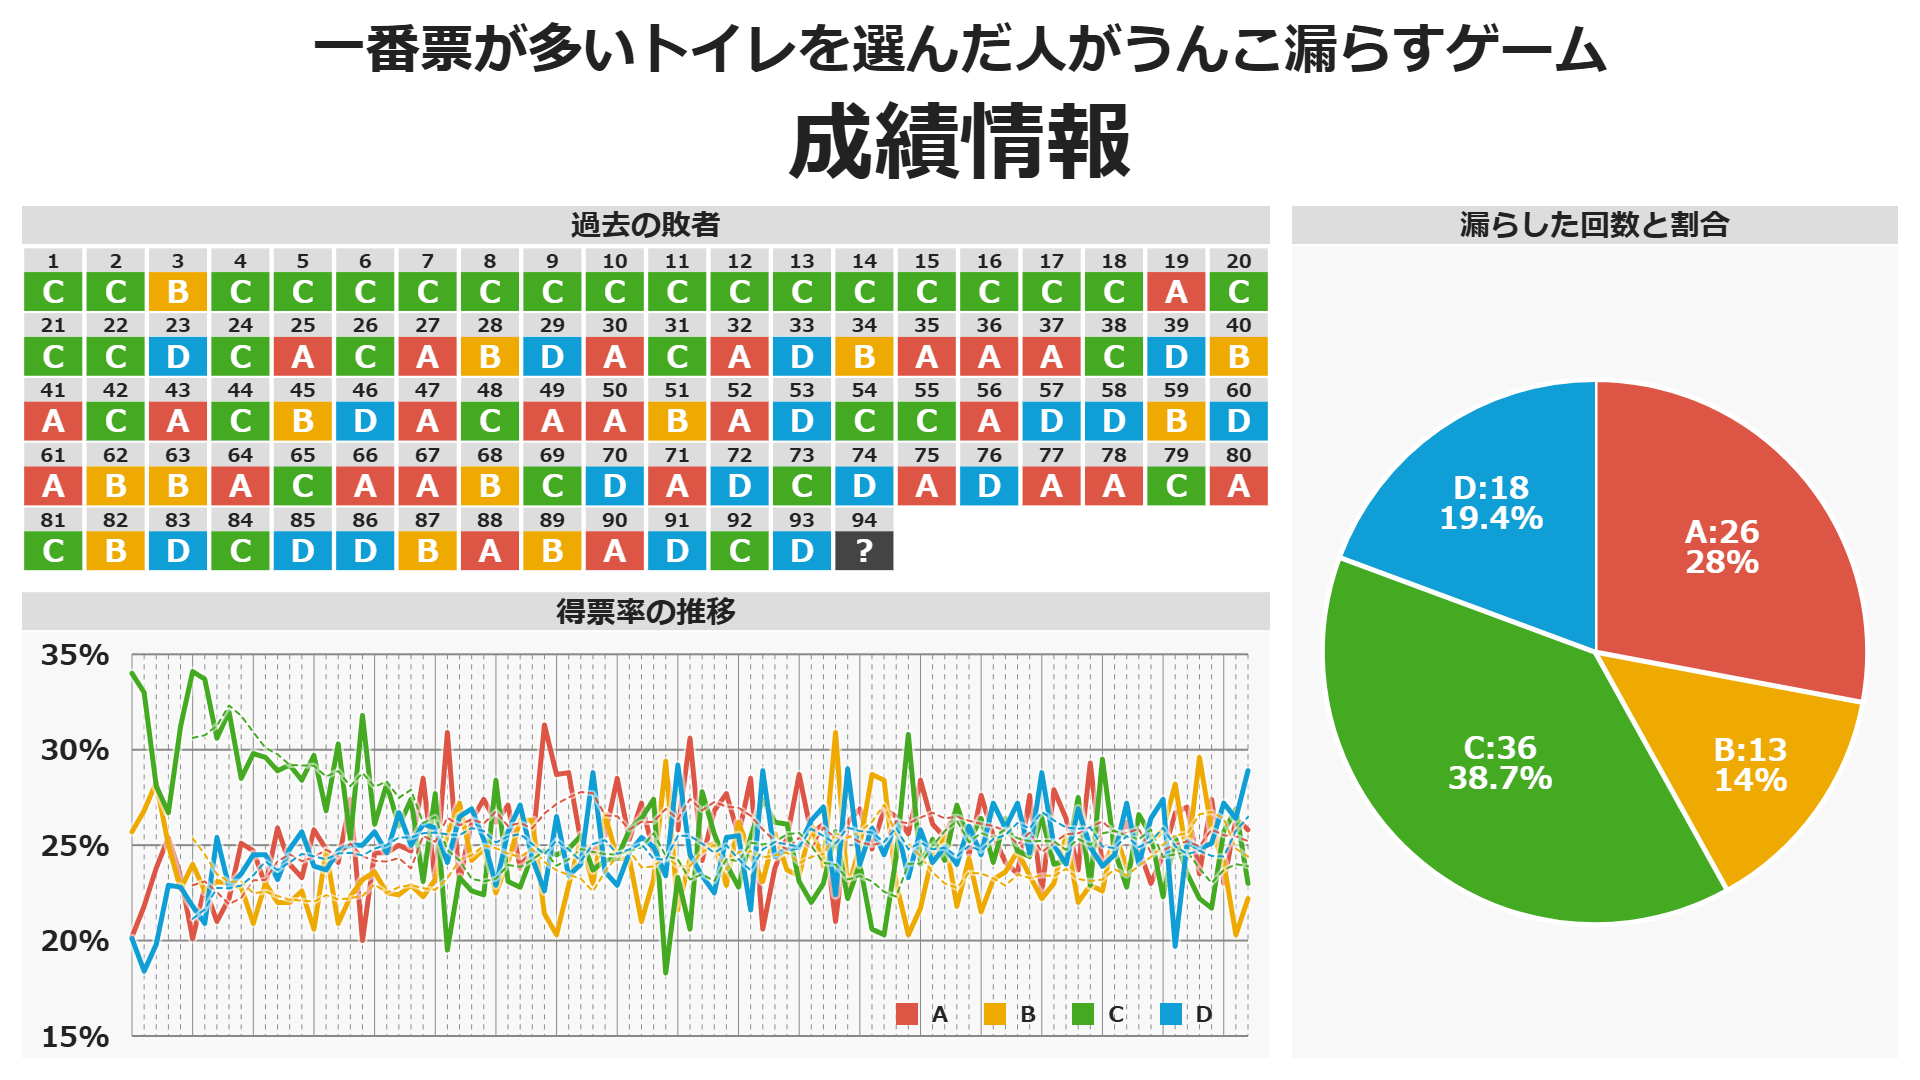
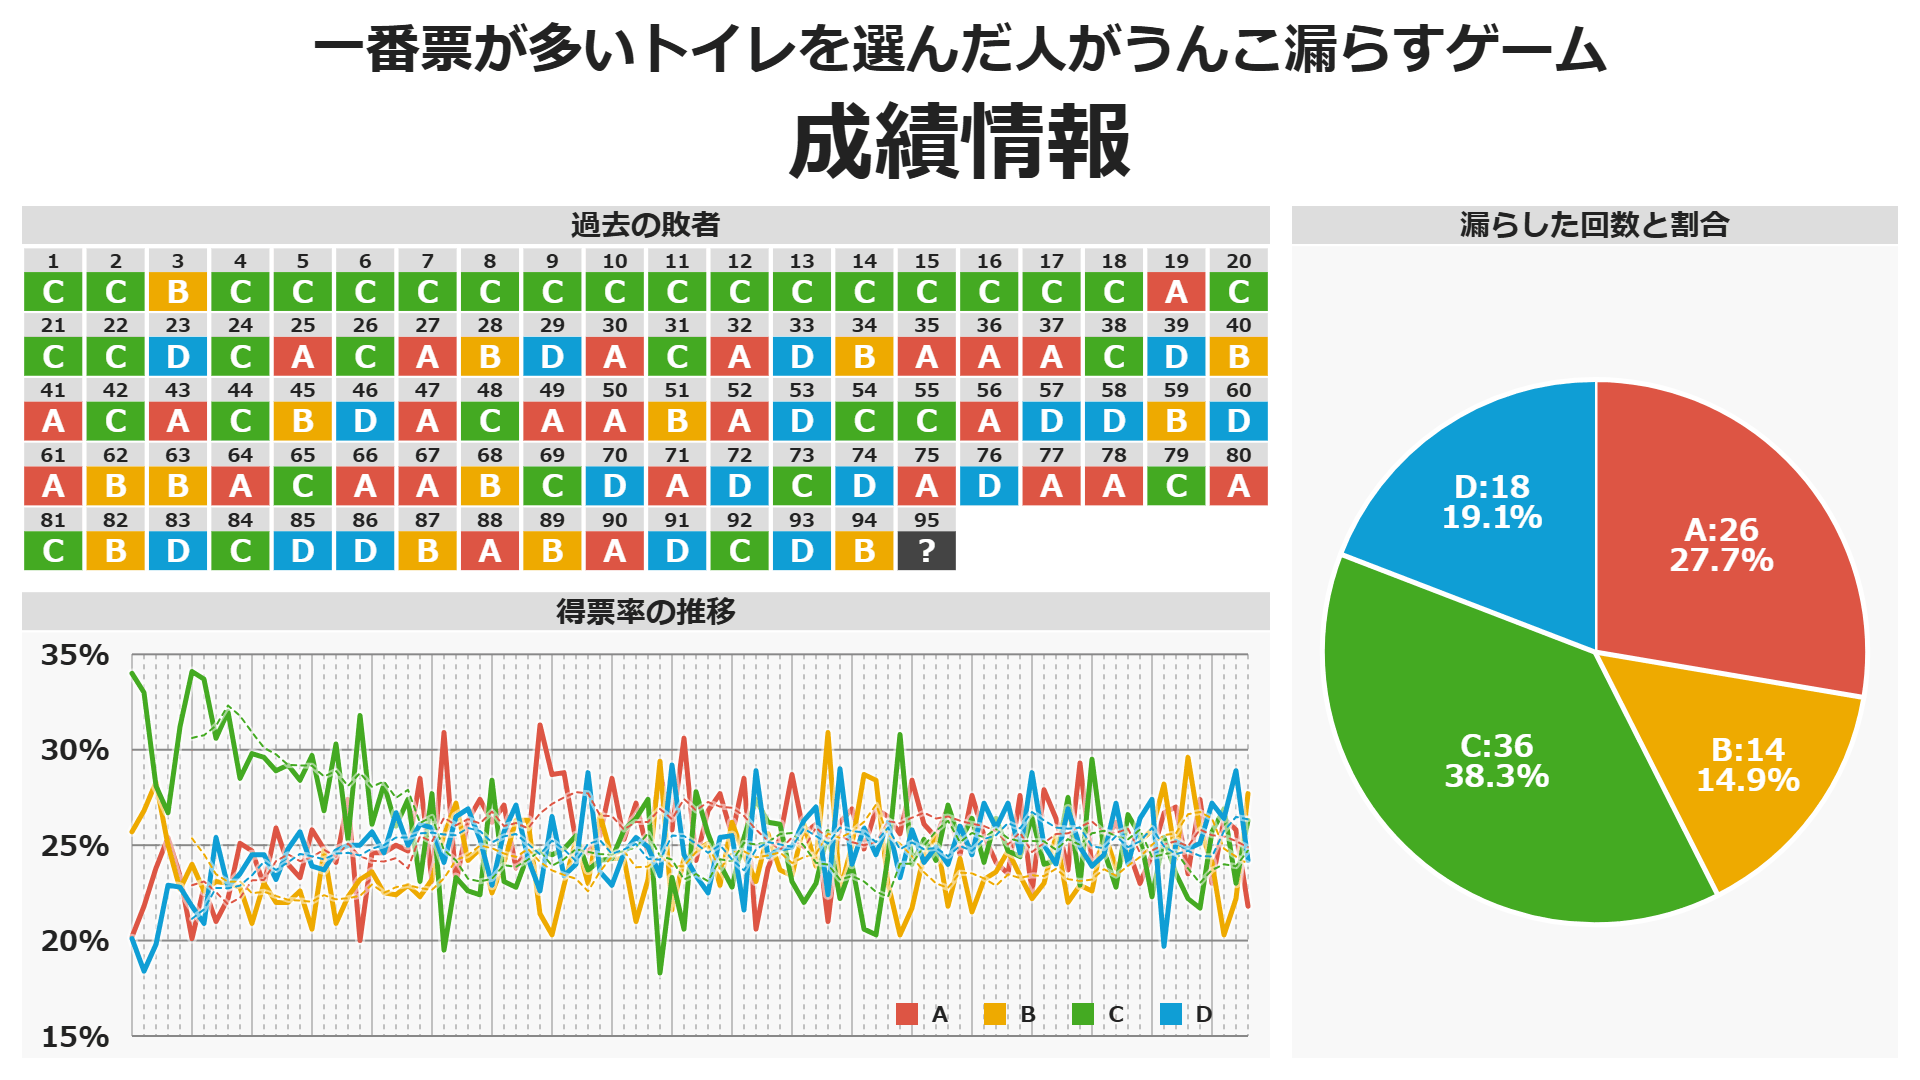
update

diff --git a/docs/index.html b/docs/index.html
@@ -13,7 +13,7 @@
   <meta property="og:url" content="https://shapoco.github.io/toilet-game/" />
   <meta property="og:title" content="4択トイレゲーム" />
   <meta property="og:description" content="一番票が多いトイレを選んだ人がうんこ漏らすゲーム" />
-  <meta property="og:image" content="https://shapoco.github.io/toilet-game/cover.png?20250906211000" />
+  <meta property="og:image" content="https://shapoco.github.io/toilet-game/cover.png?20250913132100" />
 
   <link rel="icon" href="https://shapoco.github.io/favicon192.png" sizes="192x192">
   <link rel="apple-touch-icon" href="https://shapoco.github.io/apple-touch-icon180.png" sizes="180x180">
@@ -37,8 +37,8 @@
   <style>
   </style>
 
-  <link rel="stylesheet" href="./style.css?20250906211000">
-  <script src="./toilet_game.js?20250906211000"></script>
+  <link rel="stylesheet" href="./style.css?20250913132100">
+  <script src="./toilet_game.js?20250913132100"></script>
 
   <title>4択トイレゲーム</title>
 </head>

diff --git a/docs/toilet_game.js b/docs/toilet_game.js
@@ -95,6 +95,7 @@ const DB = [
   { date: '2025-08-16', total: 378, percent: [23, 24.1, 25.7, 27.2], url: 'https://x.com/shapoco/status/1956628004131766644' },
   { date: '2025-08-23', total: 394, percent: [26.4, 20.3, 26.9, 26.4], url: 'https://x.com/shapoco/status/1959267957349175406' },
   { date: '2025-08-30', total: 356, percent: [25.8, 22.2, 23, 28.9], url: 'https://x.com/shapoco/status/1961773961689346350' },
-  { date: '2025-09-06', total: 0, percent: null, url: null },
+  { date: '2025-09-06', total: 376, percent: [21.8, 27.7, 26.3, 24.2], url: 'https://x.com/shapoco/status/1964300616047743369' },
+  { date: '2025-09-13', total: 0, percent: null, url: null },
   //{ date: '2025-xx-xx', total: 0, percent: null, url: null },
 ];

diff --git a/docs/work.html b/docs/work.html
@@ -34,8 +34,8 @@
     }
   </script>
 
-  <link rel="stylesheet" href="./style.css?20250906211000">
-  <script src="./toilet_game.js?20250906211000"></script>
+  <link rel="stylesheet" href="./style.css?20250913132100">
+  <script src="./toilet_game.js?20250913132100"></script>
 
   <title>4択トイレゲーム</title>
 </head>
